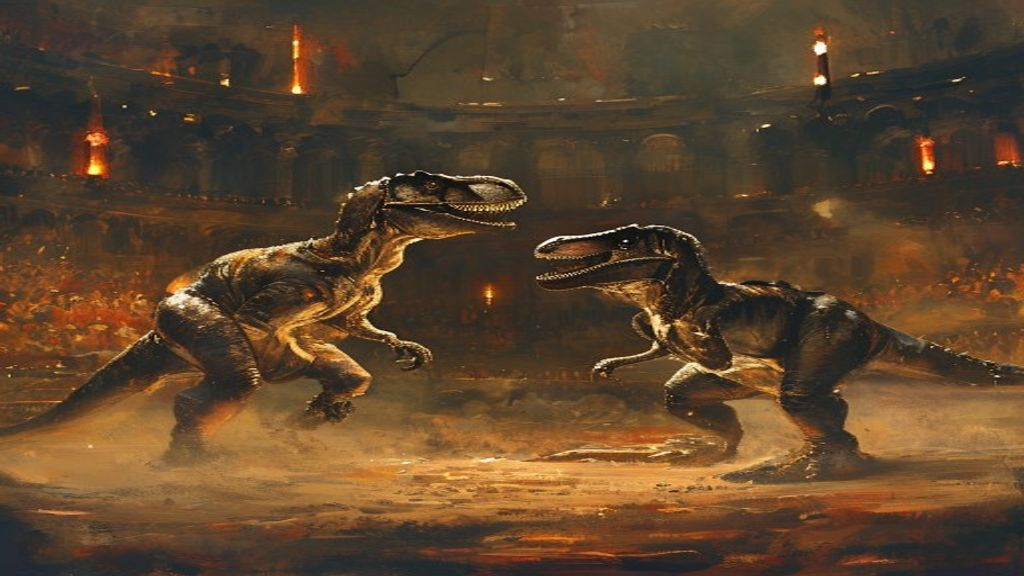
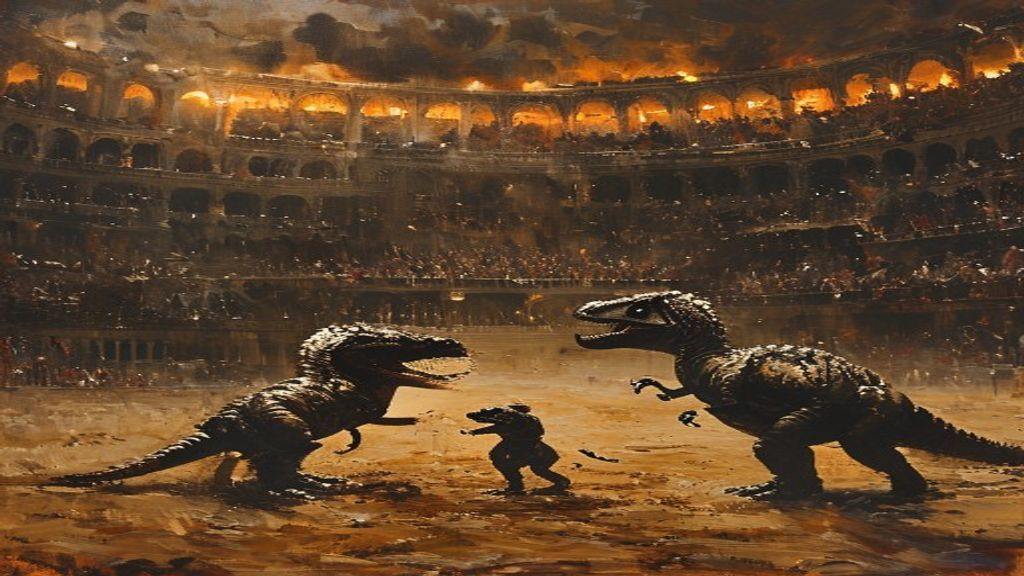
Login: new colosseum battle image, darker overlay

diff --git a/app/login/page.tsx b/app/login/page.tsx
@@ -41,7 +41,7 @@ export default function LoginPage() {
       }}>
       {/* Dark overlay so text stays readable */}
       <div className="absolute inset-0" style={{
-        background: 'linear-gradient(to bottom, rgba(5,3,2,0.8) 0%, rgba(5,3,2,0.6) 40%, rgba(5,3,2,0.85) 100%)',
+        background: 'linear-gradient(to bottom, rgba(5,3,2,0.88) 0%, rgba(5,3,2,0.72) 40%, rgba(5,3,2,0.92) 100%)',
       }} />
 
       <div className="relative text-center max-w-md w-full">
